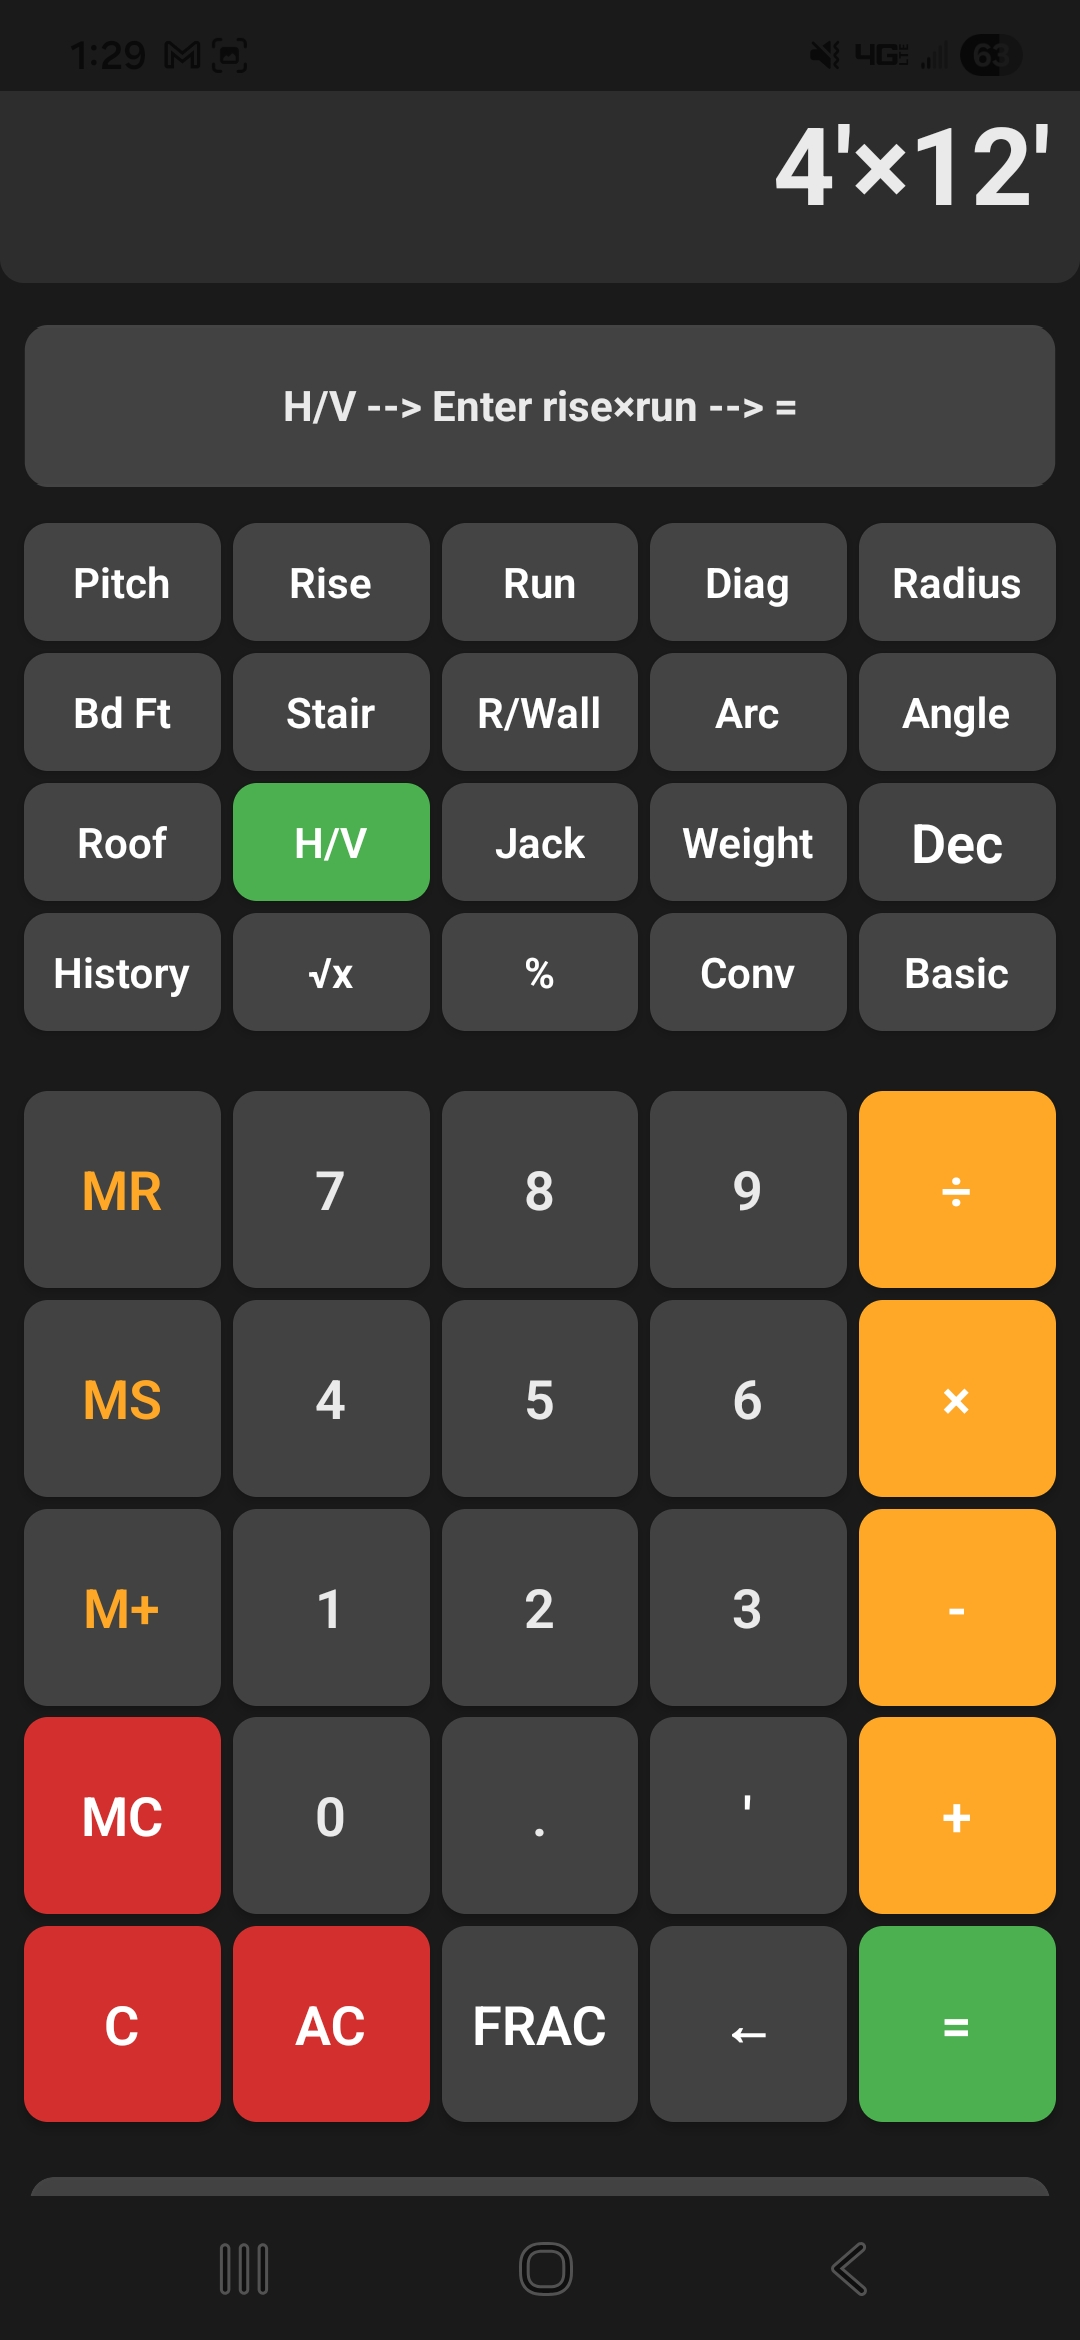
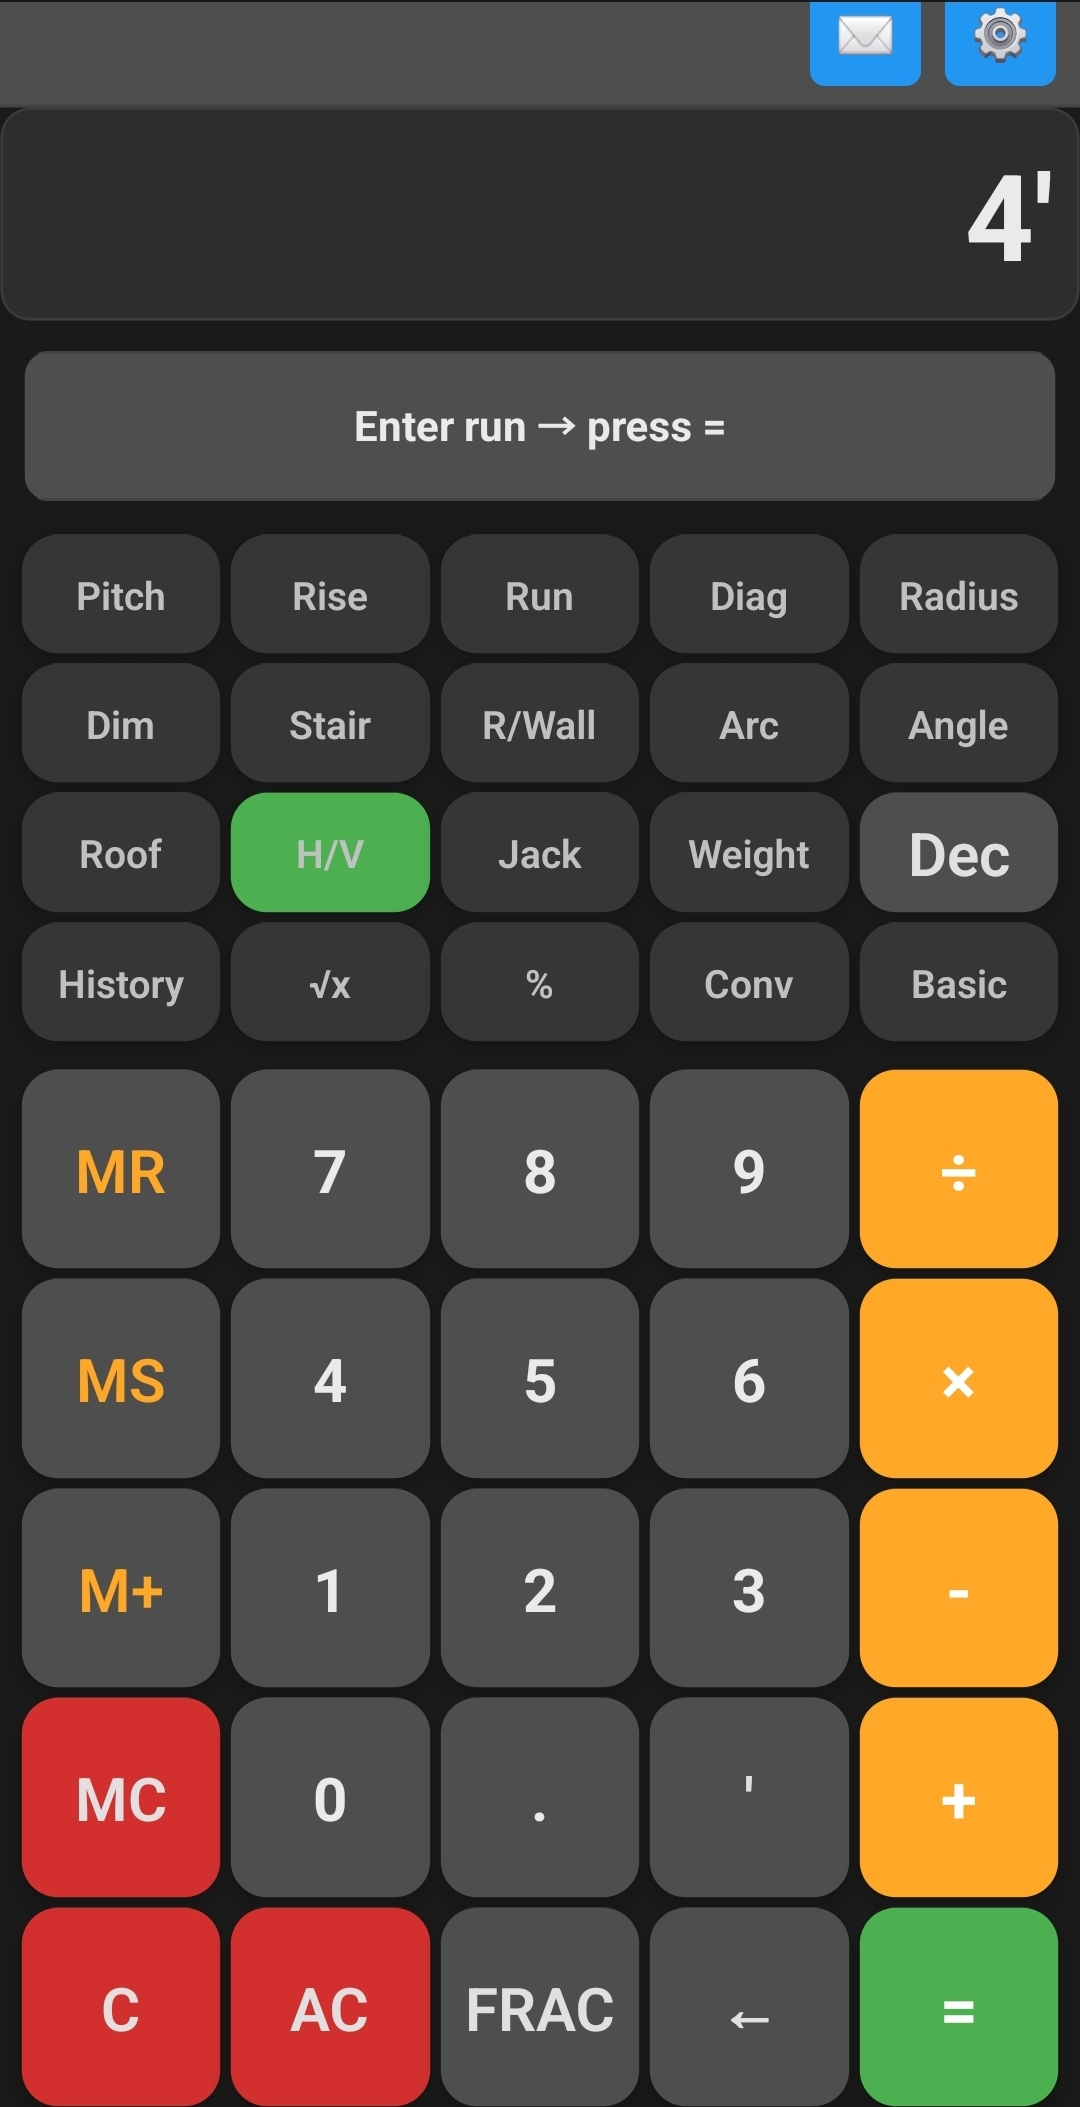
Update BoardCalc privacy + screenshot carousel

diff --git a/apps/boardcalc/privacy.html b/apps/boardcalc/privacy.html
@@ -34,23 +34,44 @@
 
   <main class="legal-main">
     <h1>Privacy Policy</h1>
-    <p class="legal-app">BoardCalc · Last updated: February 2026</p>
+    <p class="legal-app">BoardCalc · Last updated: May 2026</p>
 
     <div class="legal-content">
       <section>
         <h2>Summary</h2>
         <p>
           BoardCalc collects minimal to no personal information. The app is designed
-          to work without requiring your data. We do not use advertising or tracking.
+          to work without requiring your data. We do not show ads. We use Firebase
+          Analytics (Google) only for anonymous usage statistics—see below—not to
+          identify you personally.
         </p>
       </section>
 
       <section>
         <h2>Information We Collect</h2>
         <p>
-          We do not collect personal data from users. The app does not use analytics,
-          tracking, or advertising. Any data you enter (calculations, settings) is
-          stored only on your device.
+          We do not collect names, email addresses, or accounts in the app. Any data
+          you enter (calculations, settings) is stored only on your device unless
+          you share it or back up your device.
+        </p>
+      </section>
+
+      <section>
+        <h2>Firebase Analytics</h2>
+        <p>
+          BoardCalc uses <strong>Firebase Analytics</strong>, a service by Google LLC,
+          to understand how the app is used in aggregate. Events are anonymous: we
+          do not send personal data with them. Examples include <strong>app open</strong>
+          events and <strong>button or feature interactions</strong> (which features
+          are used, not who you are).
+        </p>
+        <p>
+          Google processes this information on our behalf and may use it as described
+          in <a href="https://policies.google.com/privacy" rel="noopener noreferrer">Google's Privacy Policy</a>.
+          We do not use Firebase Analytics to collect precise location, and we do not
+          use it for advertising. Technical identifiers may be handled by the SDK
+          as part of normal analytics delivery; we do not use them to identify you
+          beyond what the service provides for aggregated reporting.
         </p>
       </section>
 

diff --git a/apps/boardcalc/index.html b/apps/boardcalc/index.html
@@ -105,12 +105,12 @@
         <div class="carousel-viewport">
           <div class="carousel-track" data-carousel="stair">
             <div class="phone-mockup"><img src="../../assets/boardcalc/screenshots/stair_entry.jpg" alt="BoardCalc stair calculator input – rise and run" loading="lazy"></div>
-            <div class="phone-mockup"><img src="../../assets/boardcalc/screenshots/stair_display.jpg" alt="BoardCalc stair calculator display – results" loading="lazy"></div>
-            <div class="phone-mockup"><img src="../../assets/boardcalc/screenshots/stair_results.jpg" alt="BoardCalc stair calculator results – layout" loading="lazy"></div>
+            <div class="phone-mockup"><img src="../../assets/boardcalc/screenshots/stair_blank.jpg" alt="BoardCalc stair calculator start screen" loading="lazy"></div>
+            <div class="phone-mockup"><img src="../../assets/boardcalc/screenshots/stair_result.jpg" alt="BoardCalc stair calculator results – rise, run, and layout" loading="lazy"></div>
           </div>
           <div class="carousel-track" data-carousel="roof">
             <div class="phone-mockup"><img src="../../assets/boardcalc/screenshots/hip_entry.jpg" alt="BoardCalc hip roof calculator input" loading="lazy"></div>
-            <div class="phone-mockup"><img src="../../assets/boardcalc/screenshots/hip_display.jpg" alt="BoardCalc hip roof calculator display" loading="lazy"></div>
+            <div class="phone-mockup"><img src="../../assets/boardcalc/screenshots/roof_calc.jpg" alt="BoardCalc roof & rafter calculator input" loading="lazy"></div>
             <div class="phone-mockup"><img src="../../assets/boardcalc/screenshots/hip_result.jpg" alt="BoardCalc hip roof calculator results" loading="lazy"></div>
           </div>
           <div class="carousel-track" data-carousel="boardfeet">
